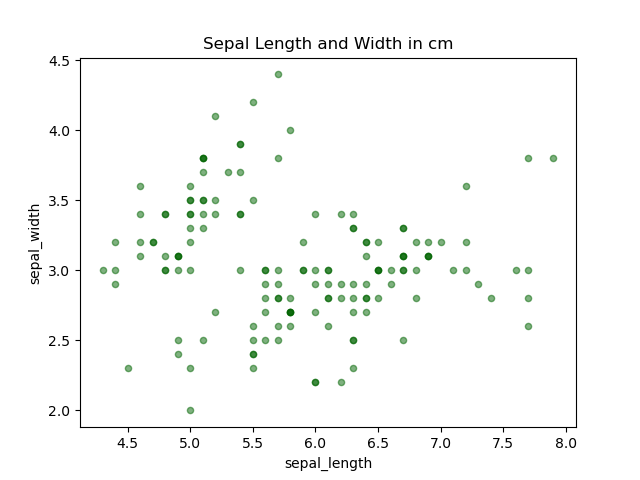
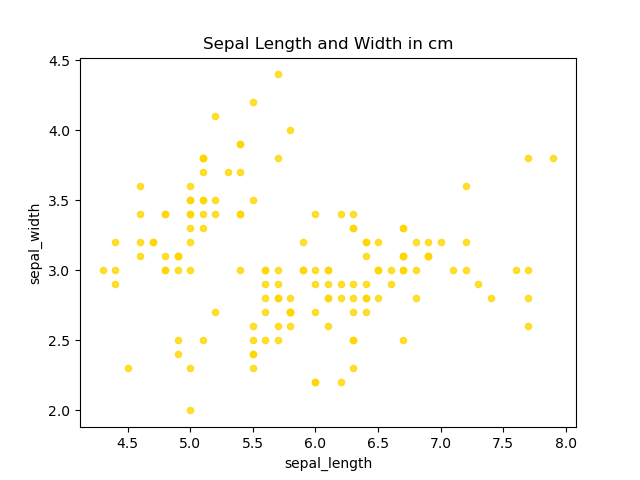
Minor changes

diff --git a/analysis.py b/analysis.py
@@ -11,6 +11,7 @@ import matplotlib.pyplot as plt # software to create my histograms and scatter p
 
 iris = pd.read_csv("iris.csv") # Reads the data from a csv file and stores it in a pandas data frame
 description = iris.describe() # This creates summary statistics for each variable
+description.to_csv("summary_stats.csv", index= True) # Saves a csv file for data visualisation
 
 with open("summary_statistics.txt", "w") as file:     # Creates a txt file 
     file.write(description.to_string())         # writes to the new file and converts the summary stats to a string
@@ -22,12 +23,12 @@ if not os.path.exists(save_directory):     # Checks to see if directory exists, 
 
 # Creating a subplot of histograms for an overview of 4 variables:
 variable_overview, axes= plt.subplots(nrows=2, ncols=2, figsize=(10, 6)) # Creates a four histogram plot, number of rows and columns specified and the size of the figure in inches
-iris["sepal_length"].hist(ax=axes[0,0], color="darkgreen", alpha=0.7)  # isolates sepal length column and assigns it to row 1, column 1, alpha refers to the opacity
+iris["sepal_length"].hist(ax=axes[0,0], color="gold", alpha=0.7)  # isolates sepal length column and assigns it to row 1, column 1, alpha refers to the opacity
 axes[0,0].set_xlabel("Length in cm") # labels the x axis, along the bottom
 axes[0,0].set_ylabel("Frequency") # labels the y axis, up the side
 axes[0,0].set_title("Sepal Length") # gives a title to this individual histogram
 
-iris["sepal_width"].hist(ax=axes[0,1], color="darkgreen", alpha=0.7)
+iris["sepal_width"].hist(ax=axes[0,1], color="gold", alpha=0.7)
 axes[0,1].set_xlabel("Width in cm")
 axes[0,1].set_ylabel("Frequency")
 axes[0,1].set_title("Sepal Width")
@@ -53,15 +54,15 @@ virginica = iris[iris["species"]== "virginica"]
 
 # Creating a hist for the sepal lengths of each species
 sepal_length_comp, axes1= plt.subplots(nrows=1, ncols=3, figsize=(8, 5)) # Creates a four histogram plot, number of rows and columns specified and the size of the figure in inches
-setosa["sepal_length"].hist(ax=axes1[0], color= "darkgreen", alpha=0.8) #axes1[0]= the first histogram of the row in column one
+setosa["sepal_length"].hist(ax=axes1[0], color= "gold", alpha=1) #axes1[0]= the first histogram of the row in column one
 axes1[0].set_title("Setosa Sepal Length")
 axes1[0].set_xlabel("in cm")
 
-versicolor["sepal_length"].hist(ax=axes1[1], color= "darkgreen", alpha=0.75)
+versicolor["sepal_length"].hist(ax=axes1[1], color= "gold", alpha=0.95)
 axes1[1].set_title("Versicolor Sepal Length")
 axes1[1].set_xlabel("in cm")
 
-virginica["sepal_length"].hist(ax=axes1[2], color= "darkgreen", alpha=0.7)
+virginica["sepal_length"].hist(ax=axes1[2], color= "gold", alpha=0.9)
 axes1[2].set_title("Virginica Sepal Length")
 axes1[2].set_xlabel("in cm")
 plt.savefig(os.path.join(save_directory, "sepal_length_comparison.png"))
@@ -69,15 +70,15 @@ plt.savefig(os.path.join(save_directory, "sepal_length_comparison.png"))
 
 # Creating a hist for the sepal widths of each species
 sepal_width_comp, axes2= plt.subplots(nrows=1, ncols=3, figsize=(8,5))
-setosa["sepal_width"].hist(ax=axes2[0], color= "darkgreen", alpha=0.8)
+setosa["sepal_width"].hist(ax=axes2[0], color= "gold", alpha=1)
 axes2[0].set_title("Setosa Sepal Width")
 axes2[0].set_xlabel("in cm")
 
-versicolor["sepal_width"].hist(ax=axes2[1], color= "darkgreen", alpha=0.75)
+versicolor["sepal_width"].hist(ax=axes2[1], color= "gold", alpha=0.95)
 axes2[1].set_title("Versicolor Sepal Width")
 axes2[1].set_xlabel("in cm")
 
-virginica["sepal_width"].hist(ax=axes2[2], color= "darkgreen", alpha=0.7)
+virginica["sepal_width"].hist(ax=axes2[2], color= "gold", alpha=0.9)
 axes2[2].set_title("Virginica Sepal Width")
 axes2[2].set_xlabel("in cm")
 plt.savefig(os.path.join(save_directory, "sepal_width_comparison.png"))
@@ -116,7 +117,7 @@ plt.savefig(os.path.join(save_directory, "petal_width_comparison.png"))
 
 
 #Creating a scatter plot with sepal lengths and sepal widths across all three species
-iris.plot.scatter(x="sepal_length", y="sepal_width", color= "darkgreen", alpha=0.5) #plot.scatter creates our scatter plots
+iris.plot.scatter(x="sepal_length", y="sepal_width", color= "gold", alpha=0.8) #plot.scatter creates our scatter plots
 plt.title("Sepal Length and Width in cm")  #Creates a title
 plt.savefig(os.path.join(save_directory, "sepal_scatter.png")) #saves the file
 
@@ -124,3 +125,27 @@ plt.savefig(os.path.join(save_directory, "sepal_scatter.png")) #saves the file
 iris.plot.scatter(x="petal_length", y="petal_width", color="#5E47CB", alpha=0.5)
 plt.title("Petal Length and Width in cm")
 plt.savefig(os.path.join(save_directory, "petal_scatter.png"))
+
+'''
+species= [setosa, versicolor, virginica]
+data= iris["sepal_length", "sepal_width", "petal_length", "petal_width"]
+
+sepal_length_violin_plot, axes5 = plt.subplots(nrows=2, ncols=2, figsize= (8,5))
+axes5[0, 0].violinplot(species, data, points=20, widths=0.3,
+                     showmeans=True, showextrema=True, showmedians=True)
+
+axes5[0,0].set_xticks([1, 2, 3])
+axes5[0,0].set_xticklabels(["Setosa", "Versicolor", "Virginica"])
+axes5[0,0].set_ylabel("Sepal Length")
+axes5[0,0].set_title("Violin Plot of Sepal Length by Iris Species")
+
+axes5[0, 1].violinplot(species, data, points=20, widths=0.3,
+                     showmeans=True, showextrema=True, showmedians=True)
+
+axes5[0,1].set_xticks([1, 2, 3])
+axes5[0,1].set_xticklabels(["Setosa", "Versicolor", "Virginica"])
+axes5[0,1].set_ylabel("Sepal Length")
+axes5[0,1].set_title("Violin Plot of Sepal Length by Iris Species")
+plt.show()
+
+'''
